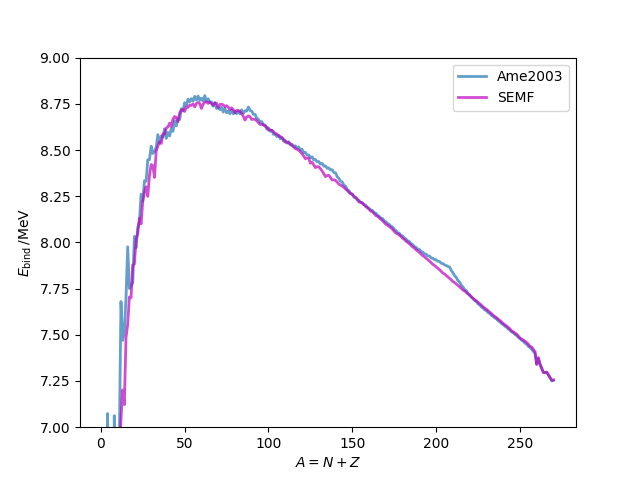
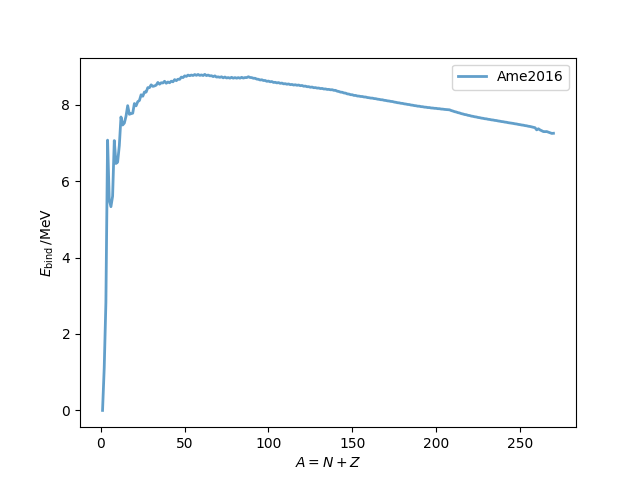
changing mass.py

diff --git a/doc/Programs/mass.py b/doc/Programs/mass.py
@@ -90,14 +90,12 @@ maxavEbind['Eapprox'] = SEMF(maxavEbind['Z'], maxavEbind['N'])
 # Generate a plot comparing the experimental with the SEMF values.
 fig, ax = plt.subplots()
 ax.plot(maxavEbind['A'], maxavEbind['avEbind'], alpha=0.7, lw=2,
-            label='Ame2003')
-ax.plot(maxavEbind['A'], maxavEbind['Eapprox'], alpha=0.7, lw=2, c='m',
-            label='SEMF')
+            label='Ame2016')
+#ax.plot(maxavEbind['A'], maxavEbind['Eapprox'], alpha=0.7, lw=2, c='m',
+#            label='SEMF')
 ax.set_xlabel(r'$A = N + Z$')
 ax.set_ylabel(r'$E_\mathrm{bind}\,/\mathrm{MeV}$')
 ax.legend()
-# We don't expect the SEMF to work very well for light nuclei with small
-# average binding energies, so display only data relevant to avEbind > 7 MeV.
-ax.set_ylim(7,9)
+#ax.set_ylim(7,9)
 save_fig("Masses2016")
 plt.show()
